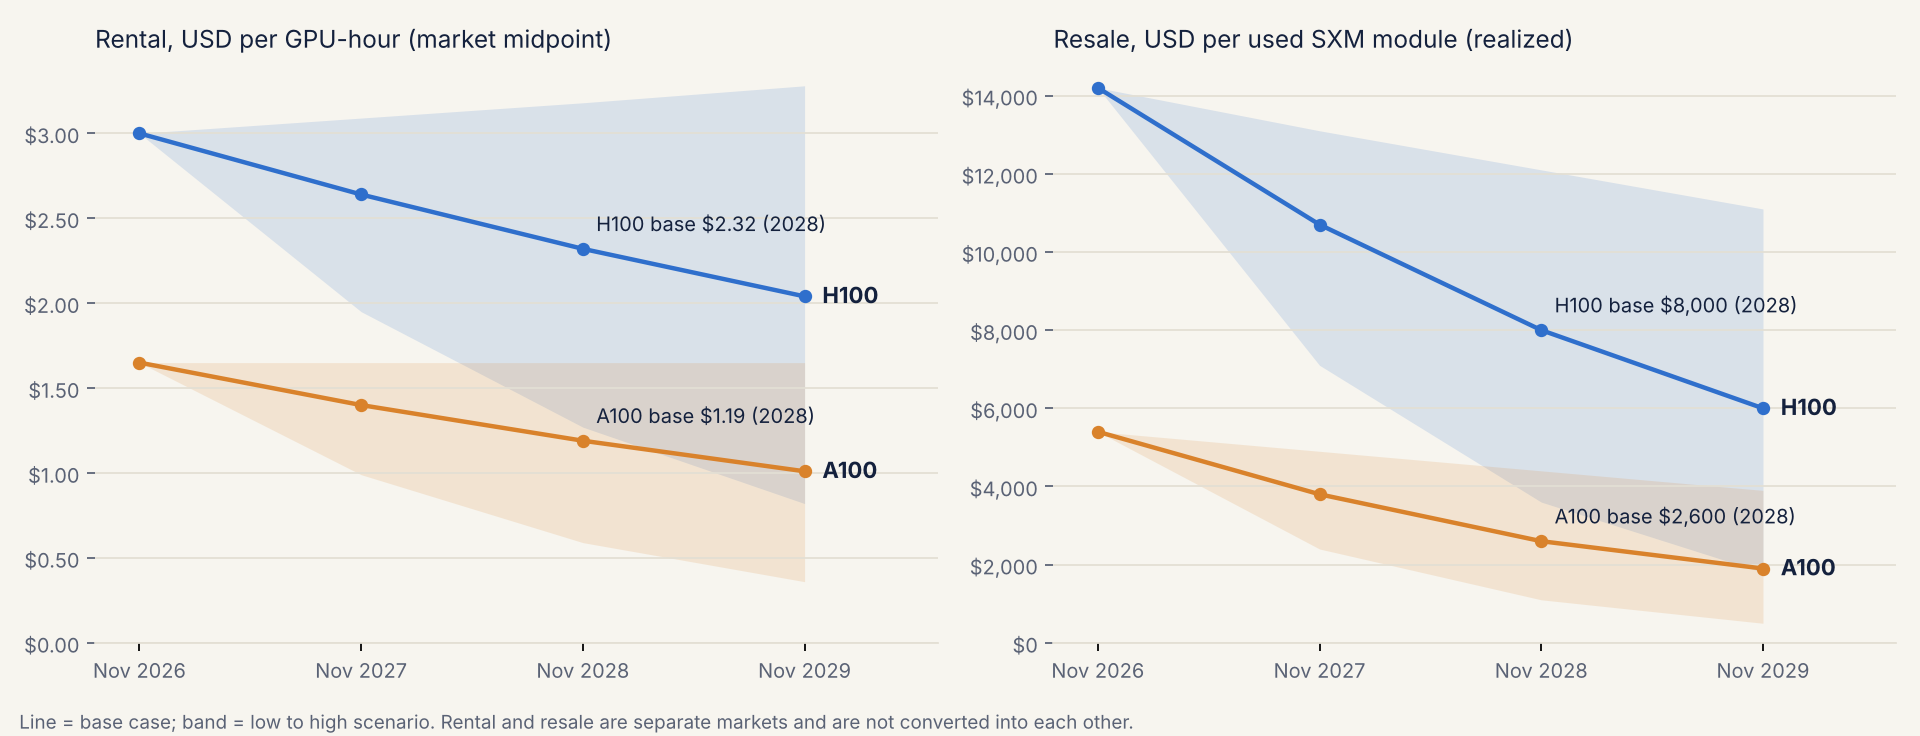
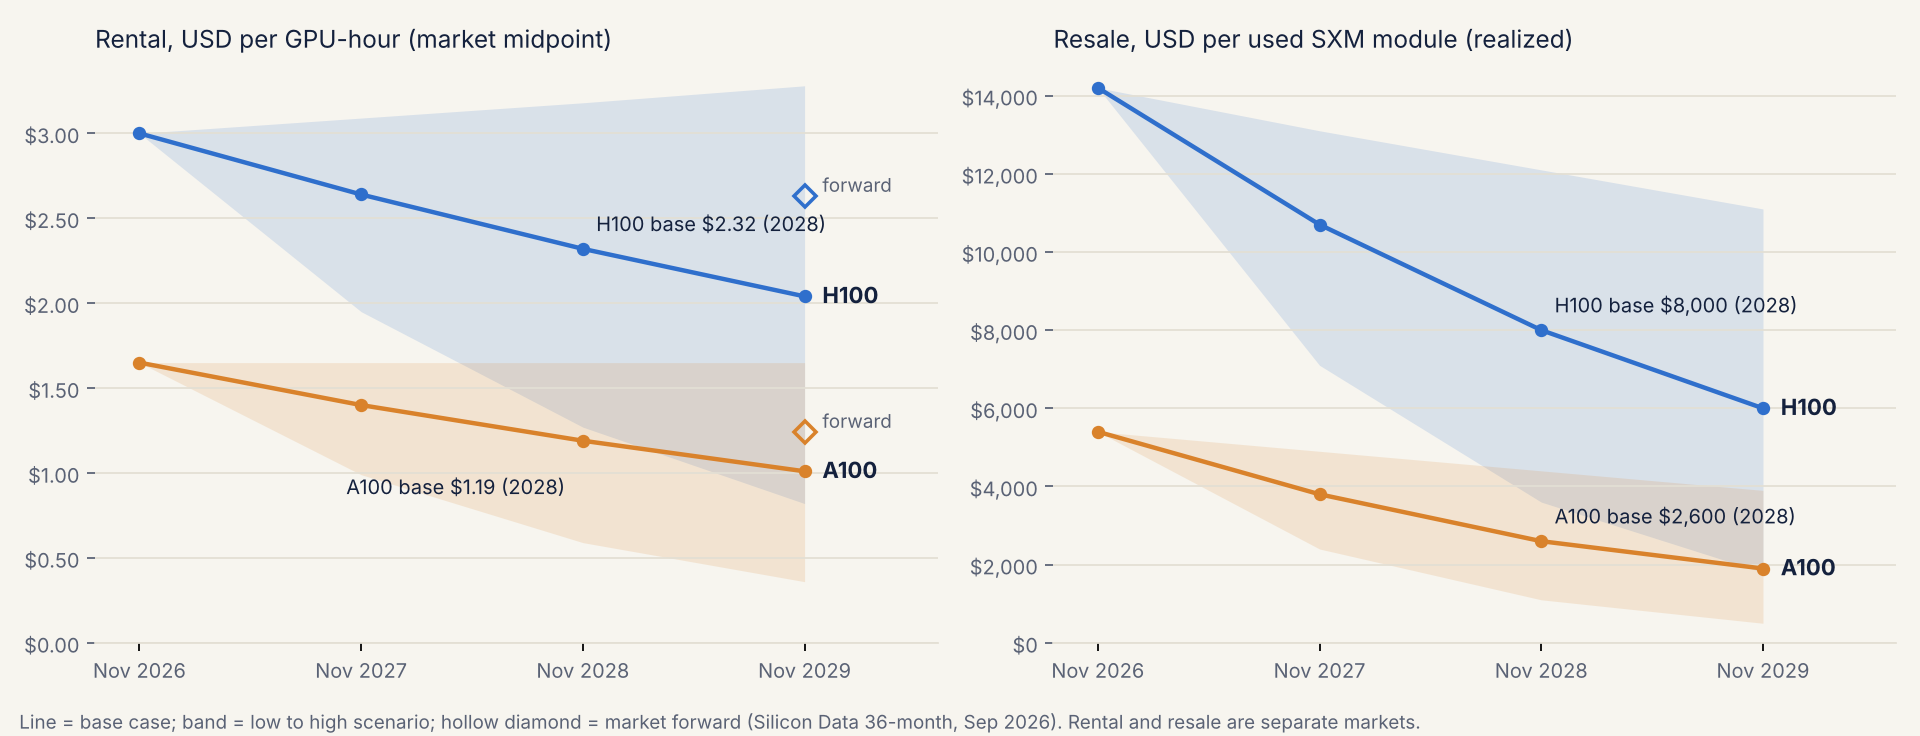
Long view: test five hypotheses (cross-section vs cohort, rent vs resale, parity, posted vs transacted, forwards) and show market forward
Claude-Session: https://claude.ai/code/session_017gaQ2Vm9jr1zhHQoTsojYL

diff --git a/gpu_scientist/long_horizon.py b/gpu_scientist/long_horizon.py
@@ -31,7 +31,7 @@ YEARS = {"2027-11": 1, "2028-11": 2, "2029-11": 3}
 # A100: GetDeploying spot 1.51, reserved_1m 1.70, reserved_12m 1.68, on_demand 1.99;
 #       Akash 80GB average 1.54 (Aug 2026).
 RENTAL_ANCHOR = {"H100": 3.00, "A100": 1.65}
-# Annual change. Reasons in LONG_HORIZON.md section 3.
+# Annual change. Reasons in LONG_HORIZON.md sections 3 and 4.
 RENTAL_RATE = {
     "H100": {"low": -0.35, "base": -0.12, "high": +0.03},
     "A100": {"low": -0.40, "base": -0.15, "high": 0.00},
@@ -58,6 +58,50 @@ UTIL = 0.70  # assumed sold utilisation for the cash-flow cross-check
 CAPABILITY = {"A100": 1.0, "H100": 2.465, "H200": 2.716, "B200": 7.915}
 # GetDeploying reserved_1m medians, week of 2026-11-02 (pack)
 RES1M = {"A100": 1.6962, "H100": 3.36, "H200": 3.9536, "B200": 8.0925}
+
+
+# ---------- Market-implied path (Silicon Data 36-month forwards vs spot, 2026-09-03,
+# as reported by the Compute-and-LLM dashboard): A100 -24.9%, H100 -12.3% over 36 months.
+FORWARD_36M = {"H100": -0.123, "A100": -0.249}
+
+# ---------- Ages used for the cross-sectional age curve (CCIR, 2026-09-28, +0.1y to Nov) ----------
+AGE = {"NVIDIA A100": 5.9, "NVIDIA H100": 3.9, "NVIDIA H200": 2.3, "NVIDIA B200": 1.6}
+# Performance parity of A100 vs H100: compute (pack MLPerf units) and memory bandwidth (datasheet, pack)
+PARITY_A100_H100 = {"compute_mlperf": round(1 / 2.465, 2), "memory_bandwidth": round(1 / 1.643, 2)}
+
+
+def pack_tests() -> dict | None:
+    """H1 (cross-section = cohort decline?) and H3 (A100 converging to parity?) on the pack's
+    GetDeploying weekly medians, Nov 2025 -> Nov 2026 (first and last 4 weeks averaged)."""
+    import numpy as np
+    import pandas as pd
+    try:
+        from .config import PACK
+    except Exception:
+        return None
+    f = PACK / "aggregator_medians.csv"
+    if not f.exists():
+        return None
+    a = pd.read_csv(f)
+    out = {}
+    for m in ("on_demand", "reserved_1m", "reserved_12m", "spot"):
+        s = a[(a.pricing_mode == m) & a.gpu_model.isin(AGE)]
+        p = s.pivot_table(index="week_start", columns="gpu_model",
+                          values="median_usd_per_gpu_hour").sort_index()
+        start, end = p.iloc[:4].mean(), p.iloc[-4:].mean()
+        e = end.dropna()
+        slope = np.polyfit([AGE[g] for g in e.index], np.log(e.values), 1)[0]
+        out[m] = {
+            "cross_section_change_per_year_of_age": round(float(np.exp(slope) - 1), 3),
+            "cohort_change_over_year": {g.split()[-1]: round(float(end[g] / start[g] - 1), 3)
+                                        for g in ("NVIDIA A100", "NVIDIA H100")},
+            "a100_over_h100": [round(float(start["NVIDIA A100"] / start["NVIDIA H100"]), 2),
+                               round(float(end["NVIDIA A100"] / end["NVIDIA H100"]), 2)],
+            "n_providers_last_week": {g.split()[-1]: int(s[(s.gpu_model == g)].sort_values("week_start")
+                                                         .n_providers.iloc[-1])
+                                      for g in ("NVIDIA A100", "NVIDIA H100")},
+        }
+    return out
 
 
 def path(anchor: float, rate: float, floor: float | None = None) -> dict:
@@ -96,6 +140,9 @@ def build() -> dict:
         node2 = m2 * NODE_PER_GPU[g] / RESALE_ANCHOR[g]
         mult[g]["base_2028_years_of_net_cash"] = round(node2 / net2, 2)
     res["cross_checks"]["resale_vs_rent"] = mult
+    res["market_forward_2029"] = {g: round(RENTAL_ANCHOR[g] * (1 + FORWARD_36M[g]), 2) for g in FORWARD_36M}
+    res["parity_a100_over_h100"] = PARITY_A100_H100
+    res["pack_tests"] = pack_tests()
     return res
 
 
@@ -118,8 +165,14 @@ def plot(res: dict) -> None:
             lo = [d["low"][x] for x in xs]; hi = [d["high"][x] for x in xs]; b = [d["base"][x] for x in xs]
             ax.fill_between(range(4), lo, hi, color=col[g], alpha=0.15, linewidth=0)
             ax.plot(range(4), b, color=col[g], lw=2, marker="o", ms=5)
-            ax.annotate(f"{g} base {fmt.format(b[2])} (2028)", (2, b[2]), xytext=(6, 8),
+            below = key.startswith("rental") and g == "A100"
+            ax.annotate(f"{g} base {fmt.format(b[2])} (2028)", (2, b[2]), xytext=(-8, -24) if below else (6, 8), ha="right" if below else "left",
                         textcoords="offset points", color=ink, fontsize=9)
+            if key.startswith("rental"):
+                fv = res["market_forward_2029"][g]
+                ax.plot([3], [fv], marker="D", ms=7, mfc="none", mec=col[g], mew=1.6)
+                ax.annotate("forward", (3, fv), xytext=(8, 2), textcoords="offset points",
+                            color=muted, fontsize=8.5)
             ax.annotate(f"{g}", (3, b[3]), xytext=(8, -3), textcoords="offset points",
                         color=ink, fontsize=10, weight="bold")
         ax.set_xticks(range(4), xl, color=muted, fontsize=9)
@@ -132,8 +185,8 @@ def plot(res: dict) -> None:
             ax.spines[s].set_visible(False)
         ax.spines["bottom"].set_color(grid)
         ax.set_title(title, loc="left", color=ink, fontsize=11)
-    fig.text(0.01, 0.01, "Line = base case; band = low to high scenario. Rental and resale are separate "
-             "markets and are not converted into each other.", color=muted, fontsize=8.5)
+    fig.text(0.01, 0.01, "Line = base case; band = low to high scenario; hollow diamond = market forward "
+             "(Silicon Data 36-month, Sep 2026). Rental and resale are separate markets.", color=muted, fontsize=8.5)
     fig.tight_layout(rect=(0, 0.04, 1, 1))
     fig.savefig(OUT_PNG, dpi=160)
 

diff --git a/gpu_scientist/LONG_HORIZON.md b/gpu_scientist/LONG_HORIZON.md
@@ -1,6 +1,6 @@
 # The 2–3 year value of an H100 and an A100
 
-This part can't be scored by Sunday. It is an argument from public evidence, with every assumption stated, three scenarios instead of one number, and a list of the things that would change the view. Numbers are reproducible with `python -m gpu_scientist.long_horizon` (writes `long_horizon.json` and `long_horizon.png`). Anchor date: November 2026, the origin of the short-horizon forecast.
+This part can't be scored by Sunday. It is an argument from public evidence, with every assumption stated, three scenarios instead of one number, and a list of the things that would change the view. Numbers are reproducible with `GPU_PACK=<pack> python -m gpu_scientist.long_horizon` (writes `long_horizon.json` and `long_horizon.png`). Anchor date: November 2026, the origin of the short-horizon forecast.
 
 Rental and resale are kept apart throughout. They are different markets with different buyers, and in 2025 they moved in opposite directions (American Compute: H100 rents fell while median resale prices rose). Converting one into the other would hide that.
 
@@ -15,7 +15,7 @@ Rental and resale are kept apart throughout. They are different markets with dif
 | H100 resale, $ per used SXM module | 14,250 | 3,600 / **8,000** / 12,100 | 1,800 / **6,000** / 11,100 |
 | A100 resale, $ per used SXM 80GB module | 5,400 | 1,100 / **2,600** / 4,400 | 500 / **1,900** / 3,900 |
 
-Rental is a "market midpoint": between spot and on-demand, close to 1- to 12-month reserved. Resale is a typical realized sale of a bare module, not a dealer ask and not a whole HGX node (whole nodes sell for more per GPU; see 2).
+Rental is a "market midpoint": between spot and on-demand, close to 1- to 12-month reserved. Resale is a typical realized sale of a bare module, not a dealer ask and not a whole HGX node (whole nodes sell for more per GPU; see 2). Rents are posted prices, the competition's measure; transacted A100 rent is about a third lower (H4 in section 3). The base case is more bearish than the market's forward curve (hollow diamonds), on purpose (section 4A).
 
 In one sentence: in the base case an H100 still rents for about $2 an hour in 2029, roughly what an A100 rents for now, while its resale value falls faster than its rent, to around 40% of today's realized price.
 
@@ -36,54 +36,72 @@ Resale, from American Compute's October 2026 Rack Report (data through August 20
 
 The last year went the "wrong" way for a depreciation story. In our pack, over Nov 2025 → Nov 2026, A100 on-demand rose from $1.60 to $1.99 and H100 from $2.98 to $4.02. CoreWeave signed an A100 contract that runs into 2029 and said prior-generation pricing is at or above where it was years ago. The base case must explain this, not ignore it.
 
-## 3. Assumptions (the argument)
+## 3. Five hypotheses, tested before they are assumed
 
-**A. Each new generation pushes older ones down a rung.** Our pack's capability units (MLPerf inference, A100 SXM 80GB = 1.0) put H100 at 2.47, H200 at 2.72 and B200 at 7.91. Dividing the reserved-1m price by capability gives the price per unit of work: A100 $1.70, H100 $1.36, H200 $1.46, B200 $1.02. Older parts already cost more per unit of work (they are easy to host and the software runs everywhere). NVIDIA's roadmap adds a step roughly every year: Rubin (second half 2026), Rubin Ultra (second half 2027), Feynman (2028). If the frontier price per unit of work stays flat, each step costs an older part somewhere around 15–25% of its rent.
+Each assumption below was first written as a hypothesis and checked against our pack or against outside data. Pack numbers come from `long_horizon.py` (GetDeploying weekly medians, first four weeks of Nov 2025 against the last four weeks to Nov 2026; `long_horizon.json`, key `pack_tests`).
 
-**B. Power and buildings slow the slide.** Blackwell racks need liquid cooling and far more power per rack than the halls A100 and H100 sit in. Until those halls are rebuilt, Hopper and Ampere capacity has no substitute in them. This is the reason given for CoreWeave's A100-to-2029 contract and for H100s being rebooked at 95% of their original price. It is why the base rental decline (-12%/yr H100, -15%/yr A100) is much slower than the -30%/yr seen while H100 supply was catching up (contract prices fell from $6.62 in late 2023 to $2.83 by February 2026).
+| # | Hypothesis | Evidence | Verdict |
+|---|---|---|---|
+| H1 | The price gap between generations today equals how fast one GPU's price falls over time | Pack, Nov 2026: across A100, H100, H200 and B200, rent falls 25–26% per year of age in every pricing mode (on-demand, 1- and 12-month reserved, spot). Over the same year the A100 itself moved between -32% and +23%, and the H100 between -16% and +33%, depending on the mode. CCIR's cross-section gives -21% per year of age (Sep 2026); Dilikoglu's gives 33–45%, and both say it is not a time series. | **Rejected.** The cross-section is an upper bound on the decline, not the decline itself. |
+| H2 | Rental and resale move together | A100 resale fell about 35% over the year (American Compute) while posted A100 on-demand rent rose 23% (pack). In 2025, H100 rents fell while H100 resale rose. | **Rejected.** They are forecast separately. |
+| H3 | Older GPUs drift down to performance parity | A100 ÷ H100 price is now 0.47–0.55 depending on the mode (pack), between parity on compute (0.41, MLPerf units) and on memory bandwidth (0.61). It fell in three of four modes over the year (on-demand 0.51 → 0.47, 12-month 0.82 → 0.55). CCIR finds rents per unit of memory bandwidth almost flat across generations. | **Partly supported.** A100 is converging on compute parity but is priced closer to bandwidth. That is why A100's base decline (-15%/yr) is steeper than H100's (-12%). |
+| H4 | Posted prices are what deals clear at | Ornn's transacted A100 index is $1.02–1.10 against our posted midpoint of $1.65; for H100 it is $2.96–3.19 against $3.00. In early 2026 Ornn ran 25–30% below Silicon Data's posted-rate index. | **Rejected for A100, close for H100.** Our view is on posted prices (the competition's measure); transacted A100 rent is about a third lower. |
+| H5 | The market already expects a steep decline | Silicon Data's 36-month forwards (3 Sep 2026): H100 -12.3% and A100 -24.9% in total, about -4% and -9% a year. The forward curve is ordered by chip age, and B200's is flat. | **Rejected.** The market prices a slow decline; our base case is more bearish than the forward (see below). |
 
-**C. Rent has a floor.** Below cash operating cost (power at PUE 1.3 and $0.08/kWh, colocation around $150 per kW-month, a share of network and staff) an owner turns the GPU off rather than renting it. We put this at about $0.35/hr for H100 (700 W) and $0.25/hr for A100 (400 W). The low scenarios stay above it.
+## 4. Assumptions (the argument)
 
-**D. Resale falls faster than rent, because remaining life shrinks.** A buyer pays for the cash a GPU will still earn. Today a used node sells for about 1.5–1.6 years of net rental cash (H100: $24,400 per GPU against about $15,300 a year at 70% utilisation; A100: $11,900 against $7,900). In the base case for 2028 that multiple falls to about 1.1–1.2 years, which is what you would expect as the buyer's horizon shortens. The two markets are checked against each other this way, but each is forecast on its own.
+**A. Newer generations push older ones down, but slower than the cross-section suggests (H1, H3).** The H100's own history gives the range of plausible decline rates. SemiAnalysis's composite fell about 34% a year from $6.62 (H2 2023) to $2.84 (Oct 2025), and 1-year contracts about 21% a year to a $1.70 trough. Then rents recovered: 1-year contracts reached about $2.40 by April 2026, 41% above the trough, and late-October 2026 spot indices were back around a year earlier's level. The forward curve says -4% a year. Our base (-12% H100, -15% A100) sits between the forward and the historical rates, because Rubin (H2 2026), Rubin Ultra (H2 2027) and Feynman (2028) will add supply the forward may underweight, while the rebound shows the catch-up decline of 2023–25 is not the steady state.
+
+**B. Power and buildings slow the slide.** Air-cooled A100 racks draw about 6.5 kW, in halls built for about 20 kW per rack; GB200/GB300 racks draw 120–140 kW. Per unit of power, air-cooled chips rent at $4.49–5.75 per kW-hour against $6.85–7.03 for liquid-cooled Blackwell (CCIR). This is the reason given for CoreWeave's A100-to-2029 contract.
+
+**C. Rent has a floor.** Below cash operating cost (power at PUE 1.3 and $0.08/kWh, colocation around $150 per kW-month, a share of network and staff) an owner turns the GPU off rather than renting it. We put this at about $0.35/hr for H100 (700 W) and $0.25/hr for A100 (400 W). The low scenarios stay above it. The BLS electricity price index is the input to watch.
+
+**D. Resale falls faster than rent, because remaining life shrinks (H2).** A buyer pays for the cash a GPU will still earn. Today a used node sells for about 1.5–1.6 years of net rental cash (H100: $24,400 per GPU against about $15,300 a year at 70% utilisation; A100: $11,900 against $7,900). In the base case for 2028 that multiple falls to about 1.1–1.2 years. Utilisation is the weakest input: there is no public source, operators report 85–90%, and 65% is a common bearish figure.
 
 **E. Scenario rates (annual, from the November 2026 anchor).**
 
-| | low | base | high |
-|---|---|---|---|
-| H100 rental | -35% | -12% | +3% |
-| A100 rental | -40% | -15% | 0% |
-| H100 resale | -50% | -25% | -8% |
-| A100 resale | -55% | -30% | -10% |
+| | low | base | high | market forward |
+|---|---|---|---|---|
+| H100 rental | -35% | -12% | +3% | about -4% |
+| A100 rental | -40% | -15% | 0% | about -9% |
+| H100 resale | -50% | -25% | -8% | none |
+| A100 resale | -55% | -30% | -10% | none |
 
 - Low = glut: Rubin ships in volume, AI demand growth slows, rebuilt halls take Blackwell and Rubin, older capacity is dumped. Rents fall at the 2023–25 catch-up pace. H100 resale in 2028 lands near American Compute's conservative residual band (5–7% of list).
 - Base = the cascade continues: frontier training moves to Blackwell and Rubin, H100 and A100 shift to inference and fine-tuning in halls that can't host the new racks.
 - High = compute scarcity persists: power, not chips, is the constraint through 2029, and old capacity stays fully booked, as in 2026.
 
-**F. Depreciation is a separate question.** Hyperscalers book GPUs over about 6 years, CoreWeave 6, Lambda 5, Nebius 4; Amazon shortened part of its fleet to 5 years. Michael Burry argues the real life is 2–3 years. Our base case says an H100 bought in 2023 is still earning around $2/hr in 2029, which supports economic lives of 5–6 years for rental. The resale path is consistent with a much shorter life for the asset value, and both can be true at once.
+**F. What the rates mean for financing.** Dilikoglu's one-megawatt model finds that, after a 3-year contract, the market rent can fall 28% a year (6-year book life), 31% (5-year) or 37% (4-year) before post-contract value drops below book value. Our base case is well inside all three; our low case crosses the 6- and 5-year thresholds. So the depreciation fight (hyperscalers and CoreWeave at 6 years, Nebius at 5, Burry at 2–3) is really a fight about which of our scenarios happens. The retirement record supports long lives: Azure's K80, P100 and P40 each ran 7–9 years, and the V100 about 7.5.
 
-## 4. What would change the view
+## 5. What would change the view
 
 | Signal | Moves us toward | Where to watch |
 |---|---|---|
 | Rubin rentals listed widely below about $1 per A100-unit of work | low | GetDeploying, our collectors |
 | H100 1-yr contract midpoint below $2.00 for a quarter | low | SemiAnalysis, Ornn OCPI |
+| Ornn's transacted A100 index catching up with posted prices, or posted prices falling to it | H4 resolved, A100 base holds or low | Ornn OCPI, our collectors |
+| Silicon Data 36-month forward moving below -25% for H100 | low | Silicon Data term structure |
 | Kalshi H100 monthly markets (Ornn-settled, listed through Aug 2027) pricing well above or below $3 | high / low | Kalshi KXH100MS (pointer only, not copied) |
 | Large A100 or H100 contracts renewed at or above previous prices | high | CoreWeave, Nebius earnings calls |
 | American Compute resale index falling faster than 35%/yr | low (resale) | Rack Report |
 | Hyperscalers shortening GPU useful lives again | low (resale) | 10-K filings |
 | Grid and data-centre power delays worsening | high | utility interconnection queues |
 
-## 5. Limits
+## 6. Limits
 
 - This is a scenario argument, not a fitted forecast; it cannot be backtested on a 13-week panel.
 - The capability units are composite, unverified ratios built from MLPerf results; the A100 → H100 step uses 2023 rounds with early H100 software.
 - Resale data is thin (American Compute flags limited samples, liquidity grade B–C), and the resale index is restatable.
+- Hypothesis tests on the pack use one year of weekly medians; reserved and spot medians rest on 5–14 providers, so their year-on-year changes are noisy. On-demand medians use 39–46 providers.
+- The age curve uses approximate ages (A100 5.9, H100 3.9, H200 2.3, B200 1.6 years) and mixes the capability differences that make newer chips dearer.
+- Several sources (ComputeLabs, CCIR, Ornn) have commercial interests in GPU financing or price data; company statements are not independently verified.
 - "Market midpoint" rent hides the spread between spot and on-demand, which is itself 1.3–1.6× today.
 
 ## Sources
 
 - GetDeploying weekly GPU price medians (CC BY 4.0), in our pack as `aggregator_medians.csv`; capability units from the pack's `capability/capability_units.csv` (MLPerf results, Apache-2.0 repositories).
 - [American Compute, H100 appraisal](https://www.amcompute.com/appraisals/h100), [A100 appraisal](https://www.amcompute.com/appraisals/a100), [A100 SXM4 80GB](https://www.amcompute.com/appraisals/a100-sxm4-80gb) (October 2026 Rack Report).
+- [Dilikoglu Research, what an old GPU is worth (29 Oct 2026)](https://dilikogluresearch.com/reports/old-gpu-worth-2026-10-29); [CCIR, GPU age curve (Sep 2026)](https://ccir.io/research/gpu-age-curve); [ComputeLabs, nine years of A100s](https://www.computelabs.ai/research/nine-years-of-a100s-a-review-of-how-long-gpus-earn); [Compute and LLM dashboard, rental prices and forward curves](https://kadentato.github.io/Compute-and-LLM-Dashboard/compute/prices-full.html); [Ornn GPU indices](https://data.ornn.com/analytics/gpu).
 - [CloudZero, H100 cost (Ornn OCPI, B200 spot)](https://www.cloudzero.com/blog/h100-gpu-cost); IntuitionLabs articles on data-center GPU prices and H100 rental prices (2026).
 - [Akash, A100 guide (Aug 2026)](https://akash.network/bits/nvidia-a100-gpu-guide-2026-specs-benchmarks-pricing/); [GPUNex, buying and selling GPUs 2026](https://www.gpunex.com/blog/buying-selling-gpus-2026); [Hashrate Index, used GPU market](https://hashrateindex.com/blog/used-gpu-market-pricing-deprecation-secondary-ai/).
 - [Tom's Hardware, CoreWeave A100 contract into 2029](https://www.tomshardware.com/tech-industry/coreweave-ceo-mike-intrator-says-it-has-signed-an-a100-contract-running-into-2029); [Benzinga](https://www.benzinga.com/node/61145901).
